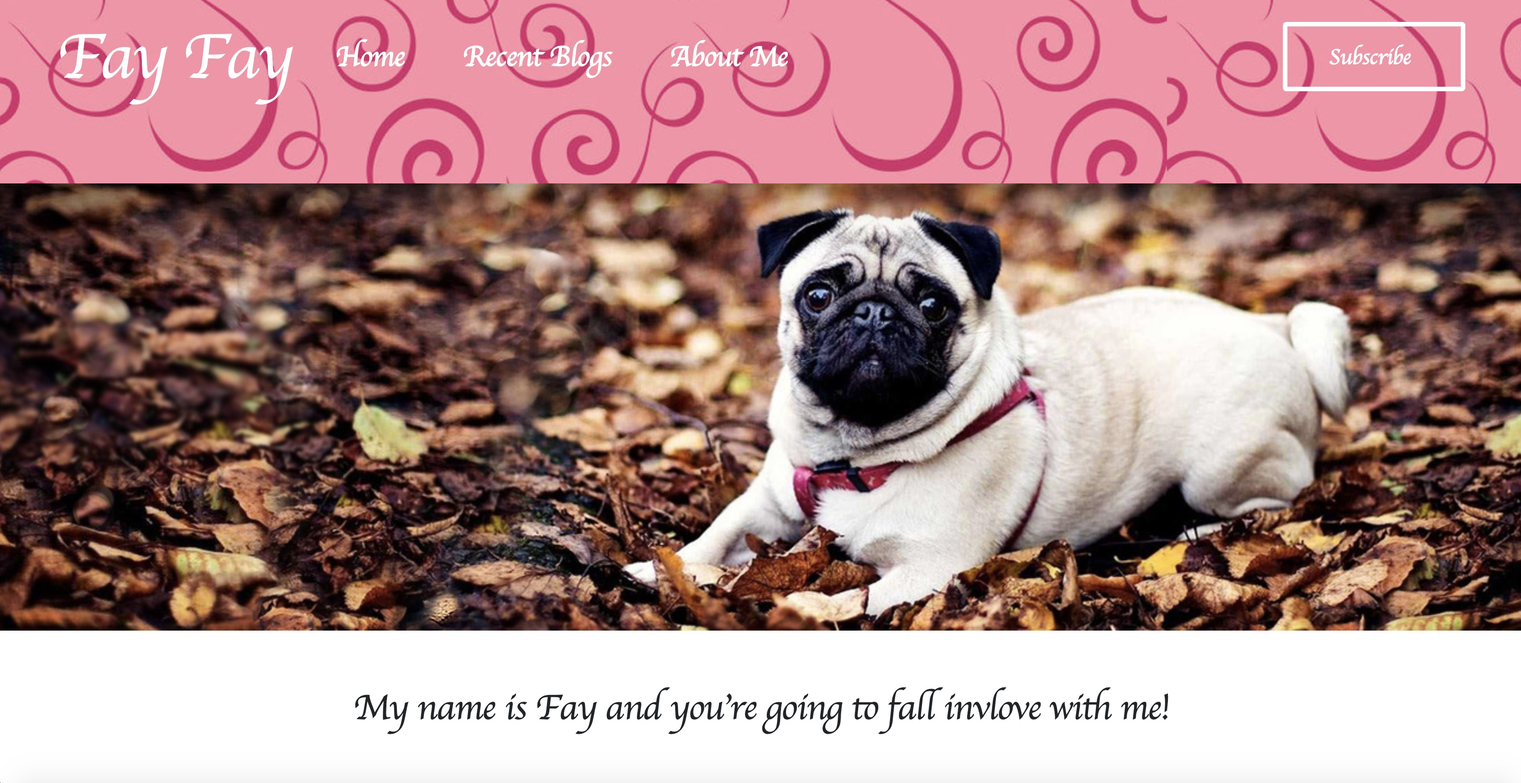
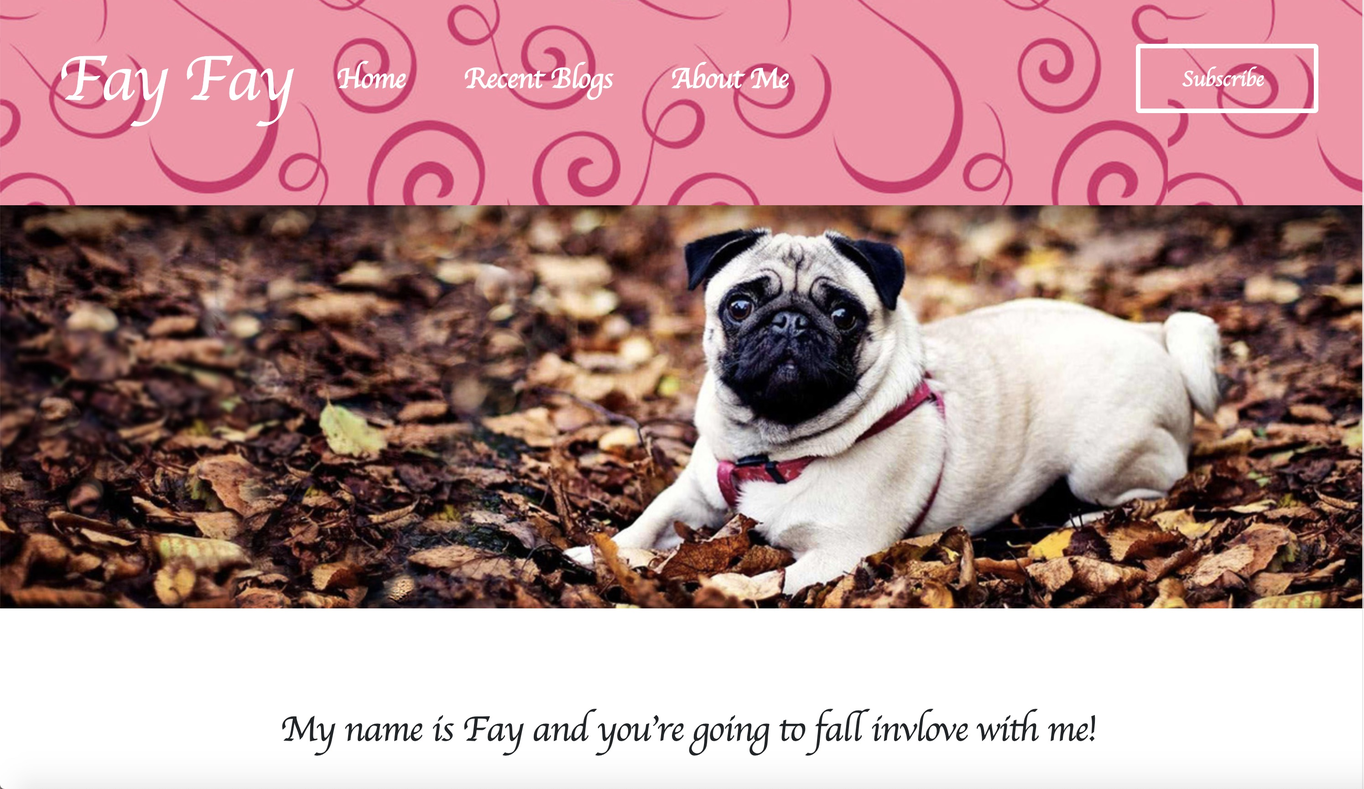
switched out some of the images and also created a README.md file

diff --git a/index.html b/index.html
@@ -27,23 +27,6 @@
         <div class="container">
         </div>
     </div>
-    <div class="nav-black-bar">
-        <div class="nav-top container row">
-            <div class="left-black-nav col-sm-7 col-md-7 col-lg-7 no-pad">
-                <p>Celeste Renee Morton</p>
-            </div>
-            <div class="right-black-nav col-sm-5 col-md-5 col-lg-5 no-pad-right">
-                <ul>
-                    <li>
-                        <a class="small-white-link" href="#">Celeste & Fay CO</a>
-                    </li>
-                    <li>
-                        <a class="small-white-link" href="#">Photo of pug paw?</a>
-                    </li>
-                </ul>
-            </div>
-        </div>
-    </div>
     <div class="nav-container  hidden-xs container">
         <nav role="navigation" class="left-nav no-pad-left col-lg-5 col-md-5 col-sm-5">
             <ul class="nav">
@@ -98,77 +81,90 @@
         </div>
     </div>
     <blockquote class="blockquote text-center">
-        <p class="mb-0">Lorem ipsum dolor sit amet, consectetur adipiscing elit. Integer posuere erat a ante.</p>
-        <footer class="blockquote-footer">Someone famous in <cite title="Source Title">Source Title</cite></footer>
+        <p class="mb-0">"Art is standing with one hand extended into the universe and one hand extended into the world,
+            and letting ourselves be a conduit for passing energy"</p>
+        <footer class="blockquote-footer">Albert Einstein</footer>
     </blockquote>
     <div class="jumbotron middle-section">
-        <p>Lorem ipsum dolor sit amet, consectetur adipiscing elit, sed do eiusmod tempor incididunt ut
-            labore et
-            dolore magna aliqua. Ut enim ad minim veniam, quis nostrud exercitation ullamco laboris nisi ut
-            aliquip
-            ex ea commodo consequat. Duis aute irure dolor in reprehenderit in voluptate velit esse cillum
-            dolore eu
-            fugiat nulla pariatur. Excepteur sint occaecat cupidatat non proident, sunt in culpa qui officia
-            deserunt mollit anim id est laborum. Lorem ipsum dolor sit amet, consectetur adipiscing elit,
-            sed do
-            eiusmod tempor incididunt ut labore et
-            dolore magna aliqua. Ut enim ad minim veniam, quis nostrud exercitation ullamco laboris nisi ut
-            aliquip
-            ex ea commodo consequat. Duis aute irure dolor in reprehenderit in voluptate velit esse cillum
-            dolore eu
-            fugiat nulla pariatur. <strong>Excepteur sint occaecat cupidatat non proident, sunt in culpa qui
-                officia
-                deserunt mollit anim id est laborum.</p></strong>
+        <div class="sidebar">
+            <img src="images/celbw-pic.jpeg" />
+        </div>
+        <h2>About Me</h2>
+        <p>My name is Celeste and I was born in Seattle but currently reside in Bend, Oregon. I attended school at
+            Northwest College of Art where I received my Bachelors in Fine Art. I have been working in the tech industry
+            for the last 7 years which is ultimately what ignited my love for coding. I started building websites for
+            the company that I currently work for and finally decided to pursue a career in software development this
+            year. I have a friend that attented Epicodus and hearing her experience really inspired me to apply for
+            school. Outside of coding and work, I spend a lot of my time swimming and training for open water races. I
+            still like to draw and paint when I can. <strong>Ultimately my goal in life is to pursue a career that
+                allows me to be creative as a software developer!</p></strong>
     </div>
     <div class="supporting">
         <div class="container">
             <div class="row">
                 <div class="col-md-4 project-pics">
-                    <img src="images/VCB.jpg" />
-                    <h2>Project 1</h2>
-                    <p>Project 1</p>
+                    <a href="https://github.com/Celesterenee7/barcelona">
+                        <img src="images/VCB.jpg" />
+                        <h2>Barcelona</h2>
+                        <p>This project is inspired by my love for the Woody Allen film "Vicky Christina Barcelona".</p>
+                        <p>Styled using HTML, CSS, & Bootstrap</p>
+                    </a>
                 </div>
                 <div class="col-md-4 project-pics">
-                    <img src="images/beatles-site.jpg" />
-                    <h2>Project 1</h2>
-                    <p>Project 1</p>
+                    <a href="https://github.com/Celesterenee7/the-beatles">
+                        <img src="images/beatles-site.jpg" />
+                        <h2>The Beatles</h2>
+                        <P>I built this website with the mindset that my favorite band was still touring in the US.</P>
+                        <p>Styled using HTML, CSS, & Bootstrap</p>
+                    </a>
                 </div>
                 <div class="col-md-4 project-pics">
-                    <img src="images/animal-shelter.jpg" />
-                    <h2>Project 1</h2>
-                    <p>Project 1</p>
+                    <a href="https://github.com/Celesterenee7/animal-shelter">
+                        <img src="images/animal-shelter.jpg" />
+                        <h2>Fays Animal Shelter</h2>
+                        <p>The goal for this was to create a website for an animal shelter which I named after
+                            my pug.</p>
+                        <p>Styled using HTML, CSS, & Bootstrap</p>
+                    </a>
                 </div>
             </div>
         </div>
         <div class="container">
             <div class="row">
                 <div class="col-md-4 project-pics">
-                    <img src="images/cupcake-site.jpg" />
-                    <h2>Project 1</h2>
-                    <p>Project 1</p>
+                    <a href="https://github.com/Celesterenee7/cupcake-site">
+                        <img src="images/cupcake-site.jpg" />
+                        <h2>Fays Cupcakes</h2>
+                        <p>The goal for this was to create a website for a cupcake shop also named after my pug.</p>
+                        <p>Styled using HTML, CSS, & Bootstrap</p>
+                    </a>
                 </div>
                 <div class="col-md-4 project-pics">
-                    <img src="images/private-resort.jpg" />
-                    <h2>Project 1</h2>
-                    <p>Project 1</p>
+                    <a href="https://github.com/Celesterenee7/private-resort">
+                        <img src="images/private-resort.jpg" />
+                        <h2>Private Resort</h2>
+                        <p>This website was built for a fictional private resort.</p>
+                        <p>Styled using HTML, CSS, & Bootstrap</p>
+                    </a>
                 </div>
                 <div class="col-md-4 project-pics">
-                    <img src="images/blog-website.jpg" />
-                    <h2>Project 1</h2>
-                    <p>Project 1</p>
+                    <a href="https://github.com/Celesterenee7/private-resort">
+                        <img src="images/blog-website.jpg" />
+                        <h2>Blog Website</h2>
+                        <p>The goal for this project was to create a blog website that had a different theme on the
+                            About Me page. </p>
+                        <p>Styled using HTML, CSS, & Bootstrap</p>
+                    </a>
                 </div>
             </div>
         </div>
         <div class="jumbotron">
-            <h1 class="display-4">Hello, world!</h1>
-            <p class="lead">This is a simple hero unit, a simple jumbotron-style component for calling extra attention
-                to featured content or information.</p>
+            <em>CRM Designs</em>
             <hr class="my-4">
-            <p>It uses utility classes for typography and spacing to space content out within the larger container.</p>
+            <p><strong>Please contact me directly if you are interested in my work!</strong></p>
         </div>
         <div class="card">
             <div class="card-body">
-                <h5 class="card-title">Contact Me</h5>
                 <div class="footer-social">
                     <a href="#">
                         <i class=" fa fa-linkedin"></i>

diff --git a/css/styles.css b/css/styles.css
@@ -1,10 +1,8 @@
 a {
     color: black;
-    text-decoration: none;
+    text-decoration: none !important;
     background: transparent !important;
 }
-
-
 
 a,
 button {
@@ -34,6 +32,11 @@ a.small-white-link:before {
     transition: all 0.3s ease-in-out 0s;
 }
 
+hr {
+    width: 80%;
+}
+
+
 .container {
     max-width: 940px;
     margin: 0 auto;
@@ -51,13 +54,29 @@ a.small-white-link:before {
 
 .footer-social i {
     color: black;
-    padding: 15px 5px;;
-    font-size: 22px;
+    padding: 15px 5px;
+    ;
+    font-size: 25px;
 
 }
 
+.footer-social i:hover {
+    color: #014687 !important;
+}
+
+
+.jumbotron em {
+    font-size: 30px !important;
+    color: #014687 !important;
+}
+
+.jumbotron h2 {
+    margin: 15px 35px;
+}
+
+
 .jumbotron p {
-    margin-bottom: 15px;
+    margin: 15px 35px;
     font-size: 16px;
     font-weight: 200;
 }
@@ -84,17 +103,11 @@ li.white-nav a.rollover-underline-black {
 }
 
 .main-image {
-    background: url("../../images/cel-run.jpeg") no-repeat center center;
+    background: url("../../images/coast.jpg") no-repeat center center;
     background-size: cover;
-    height: 300px;
+    height: 270px;
     text-align: center;
     margin-bottom: 0;
-}
-
-.main-image h1 {
-    color: rgb(229, 35, 100);
-    font-weight: 700;
-    font-size: 63px;
 }
 
 .main-row-image {
@@ -105,28 +118,6 @@ li.white-nav a.rollover-underline-black {
 .middle-section {
     background-color: #EFEEEE;
     padding: 80px;
-}
-
-
-nav ul {
-    margin: 0;
-}
-
-.nav-black-bar {
-    min-width: 100%;
-    background-color: #000;
-    margin-bottom: 20px;
-    height: 35px;
-}
-
-.nav-black-bar .nav-top {
-    margin: 0 auto;
-    display: block;
-    font-size: 9px;
-    font-weight: 200;
-    letter-spacing: 1px;
-    padding: 10px 12px;
-    padding-top: 0;
 }
 
 .nav-bar-title {
@@ -143,36 +134,6 @@ nav ul {
     height: 55px;
 }
 
-.nav-black-bar .nav-top .left-black-nav,
-.nav-black-bar .nav-top .right-black-nav {
-    float: left;
-    margin: 0;
-}
-
-.nav-black-bar .nav-top .left-black-nav li,
-.nav-black-bar .nav-top .right-black-nav li {
-    display: inline;
-    padding-left: 10px;
-}
-
-.nav-black-bar .nav-top .left-black-nav ul,
-.nav-black-bar .nav-top .right-black-nav ul {
-    float: right;
-    width: 100%;
-    text-align: right;
-    margin-bottom: 0 !important;
-}
-
-.nav-black-bar .nav-top .left-black-nav p,
-.nav-black-bar .nav-top .left-black-nav a,
-.nav-black-bar .nav-top .left-black-nav ul,
-.nav-black-bar .nav-top .right-black-nav p,
-.nav-black-bar .nav-top .right-black-nav a,
-.nav-black-bar .nav-top .right-black-nav ul {
-    color: #fff;
-    text-transform: uppercase;
-    line-height: 38px;
-}
 
 .nav-container {
     padding: 0;
@@ -274,6 +235,16 @@ nav ul {
     transition: all 0.3s ease-in-out 0s;
 }
 
+.sidebar {
+    width: 160px;
+    float: right;
+}
+
+.sidebar img {
+    margin: 0px 25px;
+    border-radius: 5px;
+}
+
 .social-media i {
     color: white;
     padding-left: .5em;
@@ -292,16 +263,22 @@ nav ul {
 }
 
 .supporting p {
-    font-size: 16px;
+    font-size: 13px;
 }
 
 .supporting .container {
     max-width: 1200px;
+    padding-bottom: 100px;
 }
 
 .supporting .col-md-4 {
     text-align: center;
     color: black;
+}
+
+.supporting .col-md-4 p {
+    font-size: 14px;
+    padding-bottom: 5px;
 }
 
 ul,
@@ -311,17 +288,17 @@ ol {
 }
 
 #MainRowImage1 {
-    background: url("../../images/cel-pic2.jpeg");
+    background: url("../../images/cel-pic.JPG");
+    background-repeat: no-repeat;
+}
+
+#MainRowImage2 {
+    background: url("../../images/raven.jpg");
     background-repeat: no-repeat;
 }
 
 #MainRowImage3 {
     background: url("../../images/khaleesi.jpeg");
-    background-repeat: no-repeat;
-}
-
-#MainRowImage2 {
-    background: url("../../images/raven.jpeg");
     background-repeat: no-repeat;
 }
 
